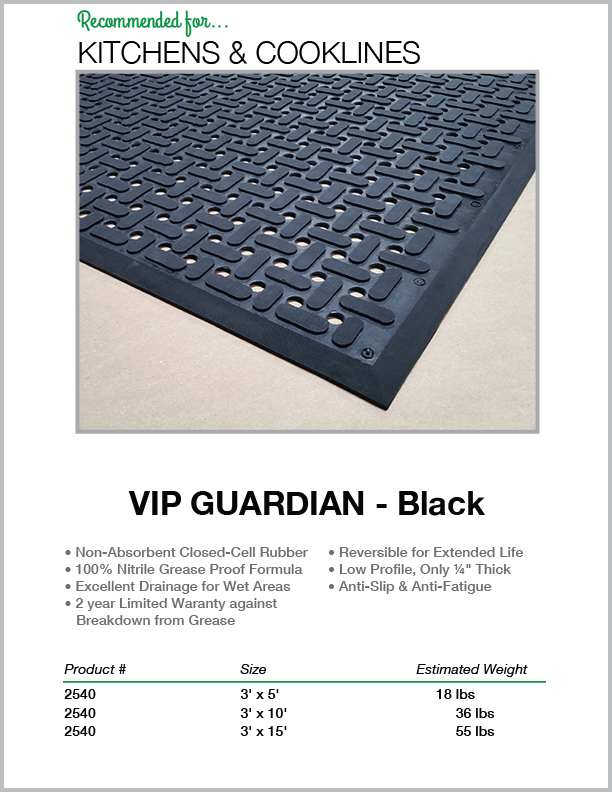
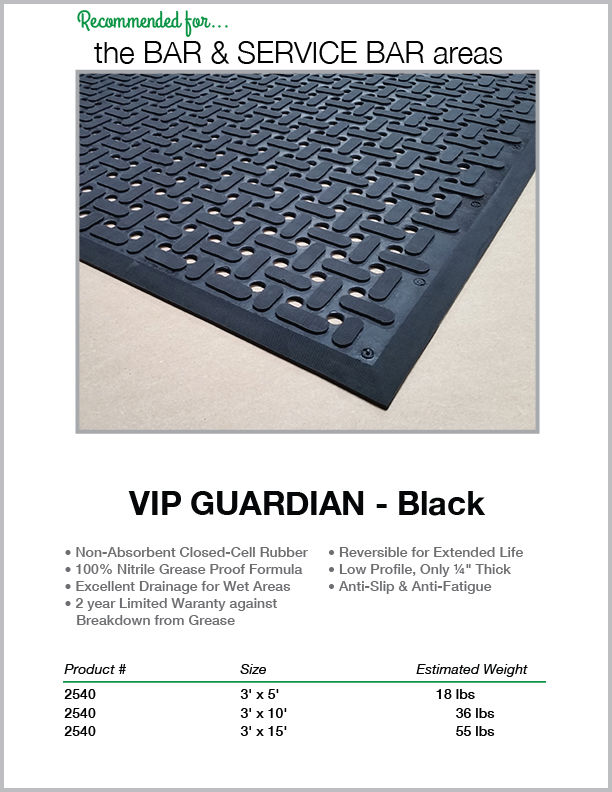
most of images added with reccomendation header

Changed region(s): [[0.1242, 0.0303, 0.8382, 0.0909]]

diff --git a/dishwash.html b/dishwash.html
@@ -34,11 +34,11 @@
 				<ul class="good_container select_entrance">
 					<h1 class="good sub_title">GOOD</h1>
 
-					<a href="assets/art_photos/GuidePics/Guide_Revers_A_Mat_Blk.jpg" data-lightbox="Guide_Revers_A_Mat_Blk.jpg" data-title="Touch &amp; Hold to COPY this image, then paste into an email &amp; send this image to your customer"><li id="reversAMatBlack" class="good">Revers A Mat - Black</li></a>
+					<a href="assets/art_photos/GuidePics/Guide_Revers_A_Mat_Blk_Dishwash.jpg" data-lightbox="Guide_Revers_A_Mat_Blk_Dishwash.jpg" data-title="Touch &amp; Hold to COPY this image, then paste into an email &amp; send this image to your customer"><li id="reversAMatBlack" class="good">Revers A Mat - Black</li></a>
 
-					<a href="assets/art_photos/GuidePics/Guide_Ni_Rib_Perforated.jpg" data-lightbox="Guide_Ni_Rib_Perforated.jpg" data-title="Touch &amp; Hold to COPY this image, then paste into an email &amp; send this image to your customer"><li id="niRibPerforated" class="good">Ni-Rib Perforated</li></a>
+					<a href="assets/art_photos/GuidePics/Guide_Ni_Rib_Perforated_Dishwash.jpg" data-lightbox="Guide_Ni_Rib_Perforated_Dishwash.jpg" data-title="Touch &amp; Hold to COPY this image, then paste into an email &amp; send this image to your customer"><li id="niRibPerforated" class="good">Ni-Rib Perforated</li></a>
 
-					<a href="assets/art_photos/GuidePics/Guide_TopdekJr_Blk.jpg" data-lightbox="Guide_TopdekJr_Blk.jpg" data-title="Touch &amp; Hold to COPY this image, then paste into an email &amp; send this image to your customer"><li id="topdekJrBlack" class="good">VIP Topdek JR - Black</li></a>
+					<a href="assets/art_photos/GuidePics/Guide_TopdekJr_Blk_Dishwash.jpg" data-lightbox="Guide_TopdekJr_Blk_Dishwash.jpg" data-title="Touch &amp; Hold to COPY this image, then paste into an email &amp; send this image to your customer"><li id="topdekJrBlack" class="good">VIP Topdek JR - Black</li></a>
 				</ul>
 	  		</div>
 <!-- BETTER BETTER BETTER BETTER BETTER BETTER BETTER BETTER BETTER-->
@@ -47,11 +47,11 @@
 				<ul class="better_container select_entrance">
 					<h1 class="good sub_title">BETTER</h1>
 
-					<a href="assets/art_photos/GuidePics/Guide_Honeycomb_Brown.jpg" data-lightbox="Guide_Honeycomb_Brown.jpg" data-title="Touch &amp; Hold to COPY this image, then paste into an email &amp; send this image to your customer"><li id="honeycombBrown" class="good">Honeycomb Brown</li></a>
+					<a href="assets/art_photos/GuidePics/Guide_Honeycomb_Brown_Dishwash.jpg" data-lightbox="Guide_Honeycomb_Brown_Dishwash.jpg" data-title="Touch &amp; Hold to COPY this image, then paste into an email &amp; send this image to your customer"><li id="honeycombBrown" class="good">Honeycomb Brown</li></a>
 
-					<a href="assets/art_photos/GuidePics/Guide_TopdekSr_Blk.jpg" data-lightbox="Guide_TopdekSr_Blk.jpg" data-title="Touch &amp; Hold to COPY this image, then paste into an email &amp; send this image to your customer"><li id="topdekSrBlack" class="good">VIP Topdek SR - Black</li></a>
+					<a href="assets/art_photos/GuidePics/Guide_TopdekSr_Blk_Dishwash.jpg" data-lightbox="Guide_TopdekSr_Blk_Dishwash.jpg" data-title="Touch &amp; Hold to COPY this image, then paste into an email &amp; send this image to your customer"><li id="topdekSrBlack" class="good">VIP Topdek SR - Black</li></a>
 
-					<a href="assets/art_photos/GuidePics/Guide_Tuffdek_Blk.jpg" data-lightbox="Guide_Tuffdek_Blk.jpg" data-title="Touch &amp; Hold to COPY this image, then paste into an email &amp; send this image to your customer"><li id="tuffdekBlack" class="good">VIP Tuffdek - Black</li></a>
+					<a href="assets/art_photos/GuidePics/Guide_Tuffdek_Blk_Dishwash.jpg" data-lightbox="Guide_Tuffdek_Blk_Dishwash.jpg" data-title="Touch &amp; Hold to COPY this image, then paste into an email &amp; send this image to your customer"><li id="tuffdekBlack" class="good">VIP Tuffdek - Black</li></a>
 				</ul>
 	  		</div>
 
@@ -61,11 +61,11 @@
 				<ul class="best_container select_entrance">
 					<h1 class="good sub_title">BEST</h1>
 
-					<a href="assets/art_photos/GuidePics/Guide_Deluxe_Blk.jpg" data-lightbox="GuidePics/Guide_Deluxe_Blk.jpg" data-title="Touch &amp; Hold to COPY this image, then paste into an email &amp; send this image to your customer"><li id="deluxeBlack" class="good">VIP Deluxe - Black</li></a>
+					<a href="assets/art_photos/GuidePics/Guide_Deluxe_Blk_Dishwash.jpg" data-lightbox="GuidePics/Guide_Deluxe_Blk_Dishwash.jpg" data-title="Touch &amp; Hold to COPY this image, then paste into an email &amp; send this image to your customer"><li id="deluxeBlack" class="good">VIP Deluxe - Black</li></a>
 
-					<a href="assets/art_photos/GuidePics/Guide_Duralok_Blk.jpg" data-lightbox="Guide_Duralok_Blk.jpg" data-title="Touch &amp; Hold to COPY this image, then paste into an email &amp; send this image to your customer"><li id="duralokBlack" class="good">VIP Duralok - Black</li></a>
+					<a href="assets/art_photos/GuidePics/Guide_Duralok_Blk_Dishwash.jpg" data-lightbox="Guide_Duralok_Blk_Dishwash.jpg" data-title="Touch &amp; Hold to COPY this image, then paste into an email &amp; send this image to your customer"><li id="duralokBlack" class="good">VIP Duralok - Black</li></a>
 
-					<a href="assets/art_photos/GuidePics/Guide_Guardian_Blk.jpg" data-lightbox="Guide_Guardian_Blk.jpg" data-title="Touch &amp; Hold to COPY this image, then paste into an email &amp; send this image to your customer"><li id="guardianBlack" class="good">VIP Guardian - Black</li></a>
+					<a href="assets/art_photos/GuidePics/Guide_Guardian_Blk_Dishwash.jpg" data-lightbox="Guide_Guardian_Blk_Dishwash.jpg" data-title="Touch &amp; Hold to COPY this image, then paste into an email &amp; send this image to your customer"><li id="guardianBlack" class="good">VIP Guardian - Black</li></a>
 				</ul>
 	  		</div>		
 		</div>

diff --git a/salad.html b/salad.html
@@ -34,11 +34,11 @@
 			<div class="row">
 				<ul class="good_container select_entrance">
 					<h1 class="good sub_title">GOOD</h1>
-					<a href="assets/art_photos/GuidePics/Guide_Revers_A_Mat_RedandBlk.jpg" data-lightbox="Guide_Revers_A_Mat_RedandBlk.jpg" data-title="Touch &amp; Hold to COPY this image, then paste into an email &amp; send this image to your customer"><li id="reversAMat" class="good">Revers A Ma</li></a>
+					<a href="assets/art_photos/GuidePics/Guide_Revers_A_Mat_RedandBlk_Salad.jpg" data-lightbox="Guide_Revers_A_Mat_RedandBlk_Salad.jpg" data-title="Touch &amp; Hold to COPY this image, then paste into an email &amp; send this image to your customer"><li id="reversAMat" class="good">Revers A Mat</li></a>
 
-					<a href="assets/art_photos/GuidePics/Guide_Ni_Rib.jpg" data-lightbox="GuidePics/Guide_Ni_Rib.jpg" data-title="Touch &amp; Hold to COPY this image, then paste into an email &amp; send this image to your customer"><li id="niRib" class="good">Ni-Rib</li></a>
+					<a href="assets/art_photos/GuidePics/Guide_Ni_Rib_Perforated_Salad.jpg" data-lightbox="GuidePics/Guide_Ni_Rib_Perforated_Salad.jpg" data-title="Touch &amp; Hold to COPY this image, then paste into an email &amp; send this image to your customer"><li id="niRib" class="good">Ni-Rib</li></a>
 
-					<a href="assets/art_photos/GuidePics/Guide_Waterwell_I.jpg" data-lightbox="Guide_Waterwell_I.jpg" data-title="Touch &amp; Hold to COPY this image, then paste into an email &amp; send this image to your customer"><li id="waterwell" class="good">Waterwell I</li></a>
+					<a href="assets/art_photos/GuidePics/Guide_Waterwell_I_Salad.jpg" data-lightbox="Guide_Waterwell_I_Salad.jpg" data-title="Touch &amp; Hold to COPY this image, then paste into an email &amp; send this image to your customer"><li id="waterwell" class="good">Waterwell I</li></a>
 				</ul>
 	  		</div>
 <!-- BETTER BETTER BETTER BETTER BETTER BETTER BETTER BETTER BETTER-->
@@ -46,9 +46,9 @@
 	  		<div class="row">
 				<ul class="better_container select_entrance">
 					<h1 class="good sub_title">BETTER</h1>
-					<a href="assets/art_photos/GuidePics/Guide_Fingertop.jpg" data-lightbox="Guide_Fingertop.jpg" data-title="Touch &amp; Hold to COPY this image, then paste into an email &amp; send this image to your customer"><li id="fingertop" class="good">Fingertop</li></a>
+					<a href="assets/art_photos/GuidePics/Guide_Fingertop_Salad.jpg" data-lightbox="Guide_Fingertop_Salad.jpg" data-title="Touch &amp; Hold to COPY this image, then paste into an email &amp; send this image to your customer"><li id="fingertop" class="good">Fingertop</li></a>
 
-					<a href="assets/art_photos/GuidePics/Guide_VinylLoop.jpg" data-lightbox="Guide_VinylLoop.jpg" data-title="Touch &amp; Hold to COPY this image, then paste into an email &amp; send this image to your customer"><li id="vinylLoop" class="good">Vinyl Loop</li></a>
+					<a href="assets/art_photos/GuidePics/Guide_VinylLoop_Salad.jpg" data-lightbox="Guide_VinylLoop_Salad.jpg" data-title="Touch &amp; Hold to COPY this image, then paste into an email &amp; send this image to your customer"><li id="vinylLoop" class="good">Vinyl Loop</li></a>
 				</ul>
 	  		</div>
 
@@ -58,11 +58,11 @@
 				<ul class="best_container select_entrance">
 					<h1 class="good sub_title">BEST</h1>
 
-					<a href="assets/art_photos/GuidePics/Guide_Guardian_Blk.jpg"  data-lightbox="Guide_Guardian_Blk.jpg"  data-title="Touch &amp; Hold to COPY this image, then paste into an email &amp; send this image to your customer"><li "guardianBlack" class="good">Guardian - Black</li></a>
+					<a href="assets/art_photos/GuidePics/Guide_Guardian_Blk_Salad.jpg"  data-lightbox="Guide_Guardian_Blk_Salad.jpg"  data-title="Touch &amp; Hold to COPY this image, then paste into an email &amp; send this image to your customer"><li "guardianBlack" class="good">Guardian - Black</li></a>
 
-					<a href="assets/art_photos/GuidePics/Guide_Guardian_Red.jpg" data-lightbox="Guide_Guardian_Red.jpg" data-title="Touch &amp; Hold to COPY this image, then paste into an email &amp; send this image to your customer"><li id="guardianRed" class="good">VIP Guardian - Red</li></a>
+					<a href="assets/art_photos/GuidePics/Guide_Guardian_Red_Salad.jpg" data-lightbox="Guide_Guardian_Red_Salad.jpg" data-title="Touch &amp; Hold to COPY this image, then paste into an email &amp; send this image to your customer"><li id="guardianRed" class="good">VIP Guardian - Red</li></a>
 
-					<a href="assets/art_photos/GuidePics/Guide_Ridge_Scraper.jpg" data-lightbox="Guide_Ridge_Scraper.jpg" data-title="Touch &amp; Hold to COPY this image, then paste into an email &amp; send this image to your customer"><li id="RidgeScraper" class="good">Ridge Scraper</li></a>
+					<a href="assets/art_photos/GuidePics/Guide_Ridge_Scraper_Salad.jpg" data-lightbox="Guide_Ridge_Scraper_Salad.jpg" data-title="Touch &amp; Hold to COPY this image, then paste into an email &amp; send this image to your customer"><li id="RidgeScraper" class="good">Ridge Scraper</li></a>
 
 					
 				</ul>

diff --git a/transition.html b/transition.html
@@ -35,7 +35,7 @@
 				<ul class="good_container select_entrance">
 					<h1 class="good sub_title">GOOD</h1>
 
-					<a href="assets/art_photos/GuidePics/Guide_Catalina Standard.jpg" data-lightbox="Guide_Catalina Standard.jpg" data-title="Touch &amp; Hold to COPY this image, then paste into an email &amp; send this image to your customer"><li id="catalinaStandard" class="good">Catalina Standard</li></a>
+					<a href="assets/art_photos/GuidePics/Guide_Catalina Standard_Transition.jpg" data-lightbox="Guide_Catalina Standard_Transition.jpg" data-title="Touch &amp; Hold to COPY this image, then paste into an email &amp; send this image to your customer"><li id="catalinaStandard" class="good">Catalina Standard</li></a>
 				</ul>
 	  		</div>
 <!-- BETTER BETTER BETTER BETTER BETTER BETTER BETTER BETTER BETTER-->
@@ -45,9 +45,9 @@
 				<ul class="better_container select_entrance">
 					<h1 class="good sub_title">BETTER</h1>
 
-					<a href="assets/art_photos/GuidePics/Guide_Catalina_Premium.jpg" data-lightbox="Guide_Catalina_Premium.jpg" data-title="Touch &amp; Hold to COPY this image, then paste into an email &amp; send this image to your customer"><li id="catalinaPremium" class="good">Catalina Premium</li></a>
+					<a href="assets/art_photos/GuidePics/Guide_Catalina_Premium_Transition.jpg" data-lightbox="Guide_Catalina_Premium_Transition.jpg" data-title="Touch &amp; Hold to COPY this image, then paste into an email &amp; send this image to your customer"><li id="catalinaPremium" class="good">Catalina Premium</li></a>
 
-					<a href="assets/art_photos/GuidePics/Guide_Tuf_Plush.jpg" data-lightbox="Guide_Tuf_Plush.jpg" data-title="Touch &amp; Hold to COPY this image, then paste into an email &amp; send this image to your customer"><li id="tufPlush" class="good">Tuf Plush</li></a>
+					<a href="assets/art_photos/GuidePics/Guide_Tuf_Plush_Transition.jpg" data-lightbox="Guide_Tuf_Plush_Transition.jpg" data-title="Touch &amp; Hold to COPY this image, then paste into an email &amp; send this image to your customer"><li id="tufPlush" class="good">Tuf Plush</li></a>
 				</ul>
 	  		</div>
 
@@ -56,11 +56,11 @@
 	  		<div class="row">
 				<ul class="best_container select_entrance">
 					<h1 class="good sub_title">BEST</h1>
-					<a href="assets/art_photos/GuidePics/Guide_Needle_Rib.jpg" data-lightbox="Guide_Needle_Rib.jpg" data-title="Touch &amp; Hold to COPY this image, then paste into an email &amp; send this image to your customer"><li id="needleRib" class="good">Needle-Rib</li></a>
+					<a href="assets/art_photos/GuidePics/Guide_Needle_Rib_Transition.jpg" data-lightbox="Guide_Needle_Rib_Transition.jpg" data-title="Touch &amp; Hold to COPY this image, then paste into an email &amp; send this image to your customer"><li id="needleRib" class="good">Needle-Rib</li></a>
 
-					<a href="assets/art_photos/GuidePics/Guide_Chevron_Rib.jpg" data-lightbox="Guide_Chevron_Rib.jpg" data-title="Touch &amp; Hold to COPY this image, then paste into an email &amp; send this image to your customer"><li id="chevronRib"class="good">Chevron-Rib</li></a>
+					<a href="assets/art_photos/GuidePics/Guide_Chevron_Rib_Transition.jpg" data-lightbox="Guide_Chevron_Rib_Transition.jpg" data-title="Touch &amp; Hold to COPY this image, then paste into an email &amp; send this image to your customer"><li id="chevronRib"class="good">Chevron-Rib</li></a>
 
-					<a href="assets/art_photos/GuidePics/Guide_Machine_Washable.jpg" data-lightbox="Guide_Machine_Washable.jpg" data-title="Touch &amp; Hold to COPY this image, then paste into an email &amp; send this image to your customer"><li id="machineWashable" class="good">Machine Washable</li></a>
+					<a href="assets/art_photos/GuidePics/Guide_Machine_Washable_Transition.jpg" data-lightbox="Guide_Machine_Washable_Transition.jpg" data-title="Touch &amp; Hold to COPY this image, then paste into an email &amp; send this image to your customer"><li id="machineWashable" class="good">Machine Washable</li></a>
 				</ul>
 	  		</div>		
 		</div>

diff --git a/waitress.html b/waitress.html
@@ -34,9 +34,9 @@
 				<ul class="good_container select_entrance">
 					<h1 class="good sub_title">GOOD</h1>
 
-					<a href="assets/art_photos/GuidePics/Guide_Revers_A_Mat_Blk.jpg" data-lightbox="Guide_Revers_A_Mat_Blk.jpg" data-title="Touch &amp; Hold to COPY this image, then paste into an email &amp; send this image to your customer"><li id="reversAMatBlack" class="good">Revers A Mat - Black</li></a>
+					<a href="assets/art_photos/GuidePics/Guide_Revers_A_Mat_Blk_Waitress.jpg" data-lightbox="Guide_Revers_A_Mat_Blk_Waitress.jpg" data-title="Touch &amp; Hold to COPY this image, then paste into an email &amp; send this image to your customer"><li id="reversAMatBlack" class="good">Revers A Mat - Black</li></a>
 
-					<a href="assets/art_photos/GuidePics/Guide_Ni_Rib.jpg" data-lightbox="GuidePics/Guide_Ni_Rib.jpg" data-title="Touch &amp; Hold to COPY this image, then paste into an email &amp; send this image to your customer"><li id="niRibSolid" class="good">Ni-Rib Solid</li></a>
+					<a href="assets/art_photos/GuidePics/Guide_Ni_Rib_Waitress.jpg" data-lightbox="GuidePics/Guide_Ni_Rib_Waitress.jpg" data-title="Touch &amp; Hold to COPY this image, then paste into an email &amp; send this image to your customer"><li id="niRibSolid" class="good">Ni-Rib Solid</li></a>
 				</ul>
 	  		</div>
 <!-- BETTER BETTER BETTER BETTER BETTER BETTER BETTER BETTER BETTER-->
@@ -45,9 +45,9 @@
 				<ul class="better_container select_entrance">
 					<h1 class="good sub_title">BETTER</h1>
 
-					<a href="assets/art_photos/GuidePics/Guide_Ridge_Scraper.jpg" data-lightbox="Guide_Ridge_Scraper.jpg" data-title="Touch &amp; Hold to COPY this image, then paste into an email &amp; send this image to your customer"><li id="ridgeScraper" class="good">Ridge Scraper</li></a>
+					<a href="assets/art_photos/GuidePics/Guide_Ridge_Scraper_Waitress.jpg" data-lightbox="Guide_Ridge_Scraper_Waitress.jpg" data-title="Touch &amp; Hold to COPY this image, then paste into an email &amp; send this image to your customer"><li id="ridgeScraper" class="good">Ridge Scraper</li></a>
 
-					<a href="assets/art_photos/GuidePics/Guide_TopdekSr_Red.jpg" data-lightbox="Guide_TopdekSr_Red.jpg" data-title="Touch &amp; Hold to COPY this image, then paste into an email &amp; send this image to your customer"><li id="topdekSrRed" class="good">VIP Topdek SR - Red</li></a>
+					<a href="assets/art_photos/GuidePics/Guide_TopdekSr_Red_Waitress.jpg" data-lightbox="Guide_TopdekSr_Red_Waitress.jpg" data-title="Touch &amp; Hold to COPY this image, then paste into an email &amp; send this image to your customer"><li id="topdekSrRed" class="good">VIP Topdek SR - Red</li></a>
 				</ul>
 	  		</div>
 
@@ -57,9 +57,9 @@
 				<ul class="best_container select_entrance">
 					<h1 class="good sub_title">BEST</h1>
 
-					<a href="assets/art_photos/GuidePics/Guide_Guardian_Blk.jpg"  data-lightbox="Guide_Guardian_Blk.jpg"  data-title="Touch &amp; Hold to COPY this image, then paste into an email &amp; send this image to your customer"><li id="guardianBlack" class="good">VIP Guardian - Black</li></a>
+					<a href="assets/art_photos/GuidePics/Guide_Guardian_Blk_Waitress.jpg"  data-lightbox="Guide_Guardian_Blk_Waitress.jpg"  data-title="Touch &amp; Hold to COPY this image, then paste into an email &amp; send this image to your customer"><li id="guardianBlack" class="good">VIP Guardian - Black</li></a>
 
-					<a href="assets/art_photos/GuidePics/Guide_Guardian_Red.jpg" data-lightbox="Guide_Guardian_Red.jpg" data-title="Touch &amp; Hold to COPY this image, then paste into an email &amp; send this image to your customer"><li id="guardianRed" class="good">VIP Guardian - Red</li></a>
+					<a href="assets/art_photos/GuidePics/Guide_Guardian_Red_Waitress.jpg" data-lightbox="Guide_Guardian_Red_Waitress.jpg" data-title="Touch &amp; Hold to COPY this image, then paste into an email &amp; send this image to your customer"><li id="guardianRed" class="good">VIP Guardian - Red</li></a>
 				</ul>
 	  		</div>		
 		</div>

diff --git a/carpet.html b/carpet.html
@@ -31,10 +31,7 @@
 	  		</div>
 
 <!-- BEST BEST BEST BEST BEST BEST BEST BEST BEST BEST BEST BEST BEST -->
-	  		<div class="row">
-				<ul class="best_container select_entrance">
-					<h1 class="good sub_title">BEST</h1>
-		<div>
+		<!--<div>
 			<ul id="selector_carpet_mats" class="carpet-mats">
 				<li>Vacuum daily.<br>
 				Periodically deep clean<br>
@@ -48,7 +45,14 @@
 				outward to store and never<br>
 				stand rolled mats on end.</li>
 			</ul>
-		</div>
+		</div>-->
+		<div class="row">
+				<ul class="best_container select_entrance">
+					<h1 class="good sub_title">BEST</h1>
+					
+					<a href="assets/art_photos/GuidePics/Guide_Carpet.jpg" data-lightbox="Guide_Carpet.jpg" data-title="Touch &amp; Hold to COPY this image, then paste into an email &amp; send this image to your customer"><li id="needleRib" class="good">Carpet Mat Care Instructions</li></a>
+				</ul>
+	  		</div>		
 				</ul>
 	  		</div>		
 		</div>

diff --git a/bar.html b/bar.html
@@ -26,7 +26,7 @@
 			  	<div class="span4"></div>
 	  		</div>
 	  		<div class="row">
-	  			<a href="entrance.html"><h1 class="center-block floor_mat_guide_text">BAR</h1></a>
+	  			<a href="entrance.html"><h1 class="center-block floor_mat_guide_text">BAR &amp; SERVICE BAR AREAS</h1></a>
 			</div>
 				
 <!-- GOOD GOOD GOOD GOOD GOOD GOOD GOOD GOOD GOOD GOOD GOOD GOOD-->	
